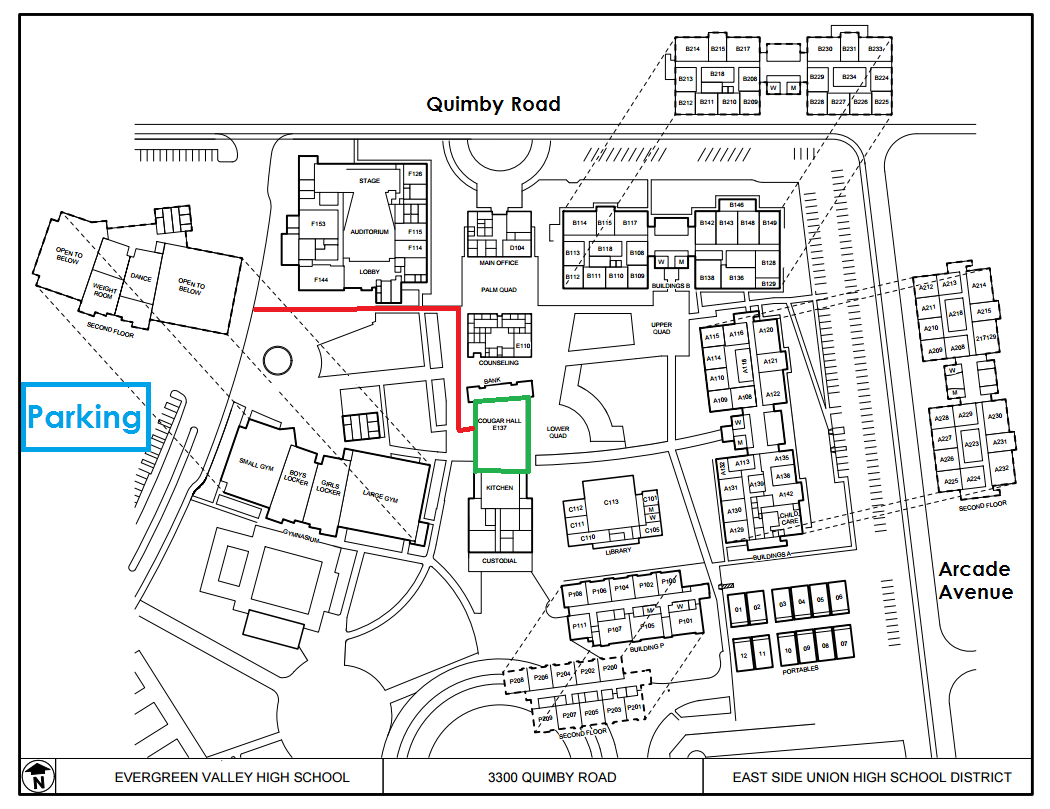
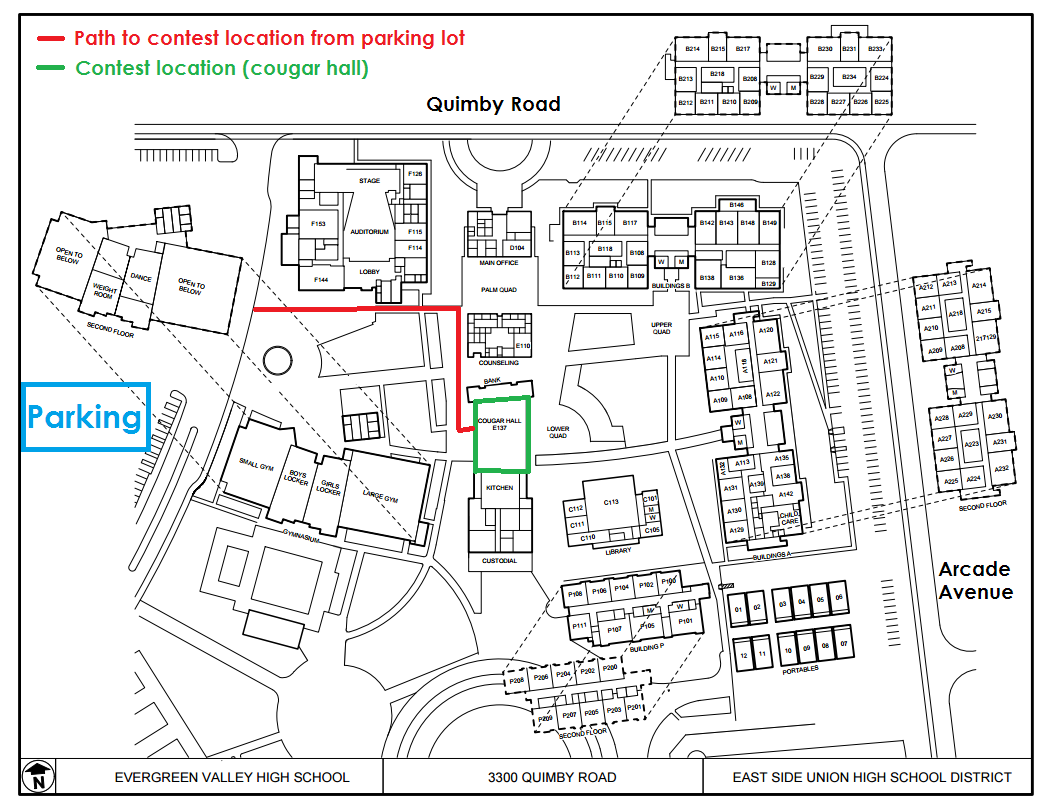
Add map of campus

Changed region(s): [[0.0305, 0.0309, 0.4571, 0.0927]]

diff --git a/index.html b/index.html
@@ -104,8 +104,7 @@
 										<p><b>Time: </b>1-5:30</p>
 										<p><b>Location: </b>Evergreen Valley High School</p>
 										<p><b>Detailed Schedule: </b><a href="https://docs.google.com/spreadsheets/d/1CGrtQDakVfqQqtk0ca4RGQsIsGolfruCfJt7_S5gUiA/edit?usp=sharing" target="_blank">Click here</a></p>
-										<p><b>Map of Campus: </b> </p>
-										<p> (NOTE - blue is parking, green is contest location, red is path from parking to contest)</p>
+										<p><b>Map of Campus: </b> <a href="https://drive.google.com/file/d/0B08LQtAi-teGUFN3MGZSSEkzQms/view?usp=sharing" target ="_blank">Click here</a> </p>
 										<!--<p>More info to be posted soon!</p>-->
 										<!--<a href="#" class="special">Learn more</a>-->
 									</div>
